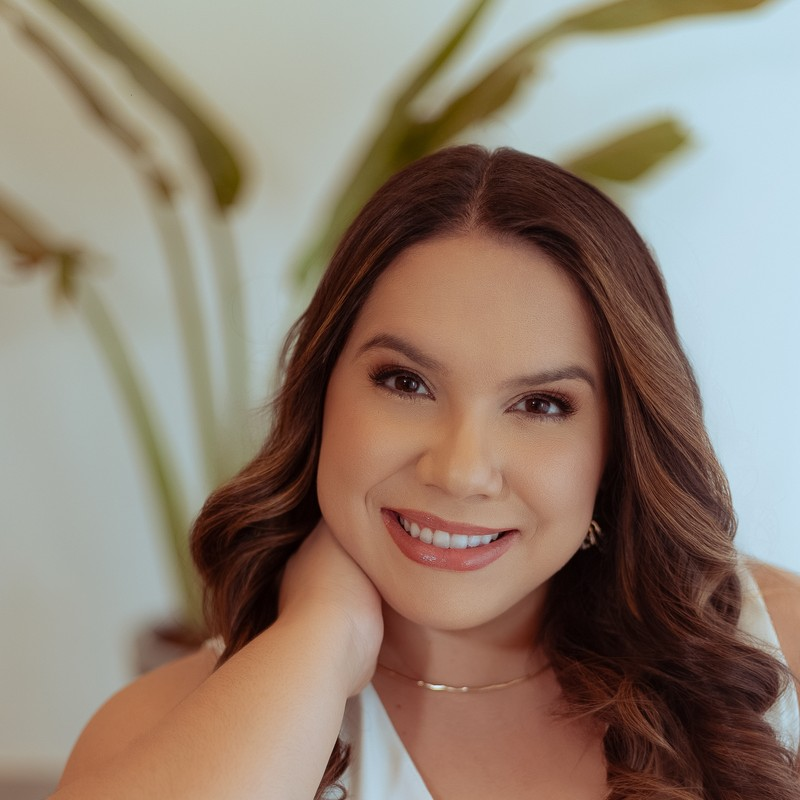
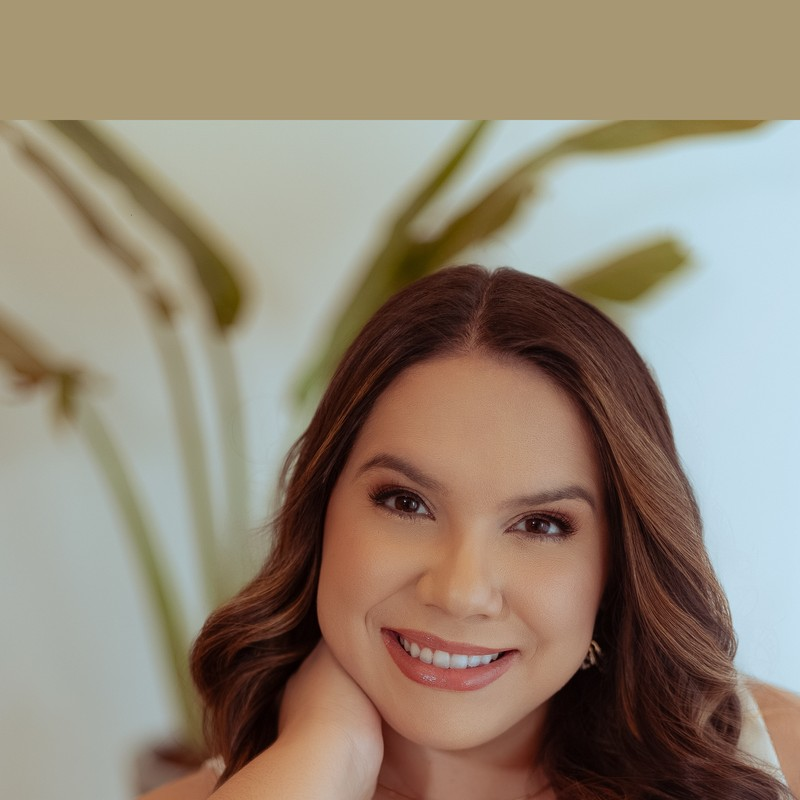
fix: adicionado 'zoom out' (headroom) via script e reduzido padding para p-2

diff --git a/templates/home.html b/templates/home.html
@@ -140,7 +140,7 @@
                         <!-- 1: Dra Tamires -->
                         <div class="swiper-slide px-4">
                             <div class="text-center group">
-                                <div class="relative w-64 h-64 mx-auto mb-6 rounded-full overflow-hidden border-4 border-[var(--equipe-borda-foto)] shadow-lg transition-transform group-hover:scale-105 p-6 bg-white/5">
+                                <div class="relative w-64 h-64 mx-auto mb-6 rounded-full overflow-hidden border-4 border-[var(--equipe-borda-foto)] shadow-lg transition-transform group-hover:scale-105 p-2 bg-white/5">
                                     <img src="{% static 'imagens/dra_tamires.jpg' %}" alt="Dra. Tamires Passadori" class="w-full h-full object-cover object-top rounded-full">
                                 </div>
                                 <h3 class="text-xl font-bold text-[var(--equipe-nome-medico)] mb-1">Dra. Tamires Passadori</h3>
@@ -150,7 +150,7 @@
                         <!-- 2: Dra Marcella -->
                         <div class="swiper-slide px-4">
                             <div class="text-center group">
-                                <div class="relative w-64 h-64 mx-auto mb-6 rounded-full overflow-hidden border-4 border-[var(--equipe-borda-foto)] shadow-lg transition-transform group-hover:scale-105 p-6 bg-white/5">
+                                <div class="relative w-64 h-64 mx-auto mb-6 rounded-full overflow-hidden border-4 border-[var(--equipe-borda-foto)] shadow-lg transition-transform group-hover:scale-105 p-2 bg-white/5">
                                     <img src="{% static 'imagens/dra_marcella.jpg' %}" alt="Dra. Marcella Januzzi" class="w-full h-full object-cover object-top rounded-full">
                                 </div>
                                 <h3 class="text-xl font-bold text-[var(--equipe-nome-medico)] mb-1">Dra. Marcella Januzzi</h3>
@@ -160,7 +160,7 @@
                         <!-- 3: Dr. Thales Oliveira -->
                         <div class="swiper-slide px-4">
                             <div class="text-center group">
-                                <div class="relative w-64 h-64 mx-auto mb-6 rounded-full overflow-hidden border-4 border-[var(--equipe-borda-foto)] shadow-lg transition-transform group-hover:scale-105 p-6 bg-white/5">
+                                <div class="relative w-64 h-64 mx-auto mb-6 rounded-full overflow-hidden border-4 border-[var(--equipe-borda-foto)] shadow-lg transition-transform group-hover:scale-105 p-2 bg-white/5">
                                     <img src="{% static 'imagens/dr_thales.jpg' %}" alt="Dr. Thales Oliveira" class="w-full h-full object-cover object-top rounded-full">
                                 </div>
                                 <h3 class="text-xl font-bold text-[var(--equipe-nome-medico)] mb-1">Dr. Thales Oliveira</h3>
@@ -170,7 +170,7 @@
                         <!-- 4: Dra Maria Isabela Gandolfo -->
                         <div class="swiper-slide px-4">
                             <div class="text-center group">
-                                <div class="relative w-64 h-64 mx-auto mb-6 rounded-full overflow-hidden border-4 border-[var(--equipe-borda-foto)] shadow-lg transition-transform group-hover:scale-105 p-6 bg-white/5">
+                                <div class="relative w-64 h-64 mx-auto mb-6 rounded-full overflow-hidden border-4 border-[var(--equipe-borda-foto)] shadow-lg transition-transform group-hover:scale-105 p-2 bg-white/5">
                                     <img src="{% static 'imagens/dra_isabela.jpg' %}" alt="Dra. Maria Isabela Gandolfo" class="w-full h-full object-cover object-top rounded-full">
                                 </div>
                                 <h3 class="text-xl font-bold text-[var(--equipe-nome-medico)] mb-1">Dra. Maria Isabela Gandolfo</h3>

diff --git a/scratch/resize_doctors.py b/scratch/resize_doctors.py
@@ -8,22 +8,27 @@ def resize_image(input_path, output_path, size=(800, 800)):
             if img.mode in ("RGBA", "P"):
                 img = img.convert("RGB")
             
-            # Crop to square (focusing on the top for portraits)
+            # Crop to square (focusing on the top for portraits with extra headroom)
             width, height = img.size
-            if width > height:
+            if height > width:
+                # Tall image: Add artificial headroom by sampling background color
+                headroom = int(width * 0.15) # Add 15% more space at the top
+                bg_color = img.getpixel((5, 5)) # Sample color from top-left
+                new_img = Image.new("RGB", (width, height + headroom), bg_color)
+                new_img.paste(img, (0, headroom))
+                
+                left = 0
+                top = 0 
+                right = width
+                bottom = width
+                img = new_img.crop((left, top, right, bottom))
+            else:
                 # Wide image: center crop horizontally
                 left = (width - height) / 2
                 top = 0
                 right = (width + height) / 2
                 bottom = height
-            else:
-                # Tall image: crop from the top (with 5% offset for headroom if possible)
-                left = 0
-                top = 0 # Starting from the very top to preserve the head
-                right = width
-                bottom = width
-            
-            img = img.crop((left, top, right, bottom))
+                img = img.crop((left, top, right, bottom))
             img = img.resize(size, Image.Resampling.LANCZOS)
             img.save(output_path, "JPEG", quality=90)
             print(f"Resized {input_path} to {output_path}")
